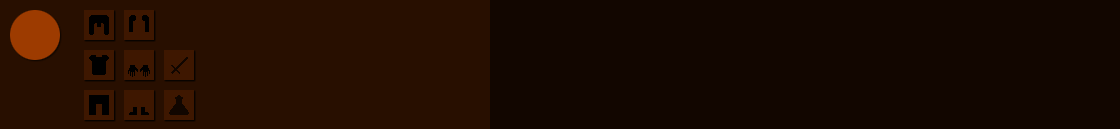
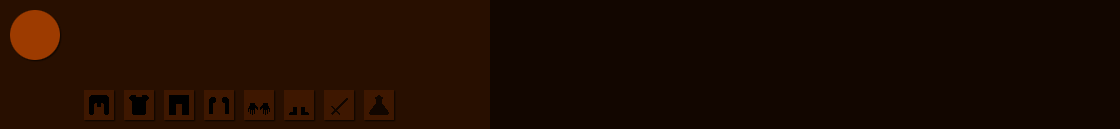
Hud almost done. Further stats tweaks and bugfixes

diff --git a/DungeonFall/js/entities/hero.js b/DungeonFall/js/entities/hero.js
@@ -30,6 +30,7 @@ game.Hero = me.ObjectEntity.extend({
     Level: 1,
     XP: 0,
     XPTNL: 50,
+    LastXPTNL: 0,
     DRMin: 0,
     DRMax: 3,
     DRBase:3,
@@ -40,6 +41,8 @@ game.Hero = me.ObjectEntity.extend({
     HP: 10,
 
     Items: new Array(8),
+
+    ItemNames: [ "a better helm", "a better chestplate", "better leggings", "better bracers", "better gloves", "better boots", "a better sword", "a potion" ],
 
     init: function (x, y, settings) {
         // call the constructor
@@ -79,6 +82,7 @@ game.Hero = me.ObjectEntity.extend({
         this.HP = this.HPMax;
         this.isEntering = true;
         this.stairsFound = null;
+        
 
         for (var x = 0; x < this.DUNGEON_WIDTH; x++) {
             this.DiscoveredTiles[x] = new Array(this.DUNGEON_HEIGHT);
@@ -87,7 +91,10 @@ game.Hero = me.ObjectEntity.extend({
             }
         }
 
-        for (var i = 0; i < 8; i++) this.Items[i] = 0;
+        if (game.Level == 1) { // First level intialization
+            for (var i = 0; i < 8; i++) this.Items[i] = 0;
+            this.XPTNL = 50;
+        }
 
         this.z = 4;
 
@@ -107,12 +114,7 @@ game.Hero = me.ObjectEntity.extend({
         var tx = Math.floor(this.pos.x / 32);
         var ty = Math.floor(this.pos.y / 32);
 
-        if (this.stairsFound!=null && !this.isFollowingPath && dungeon.isComplete && tx == this.stairsFound.x && ty == this.stairsFound.y) {
-            me.game.viewport.fadeIn("#000000", 1000, this.nextLevel.bind(this));
-            this.updateMovement();
-            this.parent();
-            return true;
-        }
+      
 
         //if (tx > 0) this.lastKnownGoodX = tx;
         //if (ty > 0) this.lastKnownGoodY = ty;
@@ -162,7 +164,7 @@ game.Hero = me.ObjectEntity.extend({
             if (me.timer.getTime() > this.statsTick + this.statsTickTarget) {
                 this.statsTick = me.timer.getTime();
                 if (this.HP < this.HPMax) {
-                    this.HP++;
+                    this.HP+= (this.HPMax/20);
                     game.HUD.addFloatyText(new me.Vector2d((this.pos.x + 3) + Math.floor(Math.random() * 16), this.pos.y), "1", "green");
                     
 
@@ -181,6 +183,8 @@ game.Hero = me.ObjectEntity.extend({
             }
         }
 
+        if (this.HP > this.HPMax) this.HP = this.HPMax;
+
         for (var x = 0; x < this.DUNGEON_WIDTH; x++) {
             for (var y = 0; y < this.DUNGEON_HEIGHT; y++) {
                 if (this.DiscoveredTiles[x][y] == -1) {
@@ -198,7 +202,7 @@ game.Hero = me.ObjectEntity.extend({
             for (var y = ty - 1; y <= ty + 1; y++) {
                 if (x >= 1 && y >= 1 && x <= this.DUNGEON_WIDTH - 1 && y <= this.DUNGEON_HEIGHT - 2  && this.DiscoveredTiles[x][y]!=1) {
                     this.DiscoveredTiles[x][y] = 1;
-                    this.XP+=0.54;
+                    this.XP+=(game.Level/5);
                     if (dungeon.Tiles[x][y] == PieceHelper.STAIRS_TILE && this.stairsFound == null) {
                         this.stairsFound = new me.Vector2d(x, y);
                         dungeon.stairsOK = true;
@@ -215,15 +219,19 @@ game.Hero = me.ObjectEntity.extend({
             var cy = Math.floor(chest.pos.y / 32);
             if (tx == cx && ty == cy && !chest.isOpen) {
                 chest.open();
-                game.HUD.addLine("Hero opened a chest!");
+                game.HUD.addLine("Hero opened a chest");
+                var ran = Math.floor(Math.random() * 6);
+                this.Items[ran]++;
+                game.HUD.addLine("...and found " + this.ItemNames[ran] + "!");
             }
         }
 
         for (this.scanY = 1; this.scanY < this.DUNGEON_HEIGHT - 2; this.scanY++) {
-            if (dungeon.Tiles[this.scanX][this.scanY] == PieceHelper.STAIRS_TILE) {
+            if (dungeon.Tiles[this.scanX][this.scanY] == PieceHelper.STAIRS_TILE && this.stairsFound==null) {
                 var path = dungeon.findPath(dungeon.pathGrid, tx, ty, this.scanX, this.scanY);
                 if (path.length > 0) {
                     dungeon.stairsOK = true;
+                    this.explore(this.scanX, this.scanY, path);
                 } else {
                     dungeon.stairsOK = false;
                 }
@@ -301,6 +309,13 @@ game.Hero = me.ObjectEntity.extend({
             }
 
         }
+
+        if (this.stairsFound != null && !this.isFollowingPath && dungeon.isComplete && tx == this.stairsFound.x && ty == this.stairsFound.y && me.game.world.getEntityByProp("name", "mob").length == 0 && !this.isTravelling) {
+            me.game.viewport.fadeIn("#000000", 1000, this.nextLevel.bind(this));
+            this.updateMovement();
+            this.parent();
+            return true;
+        }
         
         this.scanX++;
         if (this.scanX == this.DUNGEON_WIDTH - 1) {
@@ -314,7 +329,9 @@ game.Hero = me.ObjectEntity.extend({
        
         if (this.XP >= this.XPTNL) {
             this.Level++;
+            this.LastXPTNL = this.XPTNL;
             this.XPTNL = 50 + (50 * this.Level);
+            this.XP = 0;
             this.HPMax += this.Level;
             this.HP = this.HPMax;
             game.HUD.addFloatyText(new me.Vector2d((this.pos.x - 50) + Math.floor(Math.random() * 16), this.pos.y - 16), "Level Up!", "gold", 2);

diff --git a/DungeonFall/js/entities/hud.js b/DungeonFall/js/entities/hud.js
@@ -12,6 +12,9 @@ game.HUD.addLine = function (line) {
 
 game.HUD.Container = me.ObjectContainer.extend({
 
+    itemSprites: new Array(8),
+    itemSpriteNames: ["ihead","ichest","ilegs","iarms","ihands","ifeet","isword","ipotion"],
+
     init: function () {
         // call the constructor
         this.parent();
@@ -36,10 +39,27 @@ game.HUD.Container = me.ObjectContainer.extend({
         bg.z = -2;
         this.addChild(bg);
 
+        this.itemSpriteNames = ["ihead", "ichest", "ilegs", "iarms", "ihands", "ifeet", "isword", "ipotion"];
+
+        var sx = 84;
+        var sy = 698;
+        for (var i = 0; i < 8; i++) {
+            this.itemSprites[i] = new me.SpriteObject(sx, sy, me.loader.getImage(this.itemSpriteNames[i]), 30, 30);
+            this.itemSprites[i].floating = true;
+            this.itemSprites[i].z = 0;
+            this.itemSprites[i].alpha = 0;
+            this.addChild(this.itemSprites[i]);
+            sx += 40;
+        }
+
         for(var i=0;i<7;i++) game.HUD.addLine("");
 
         this.font = new me.BitmapFont("font", { x: 32, y: 32 }, 0.8);
-        this.font.alignText = "center";
+        this.font.set("center");
+        this.itemfontgreen = new me.BitmapFont("floatfont-green", { x: 13, y: 14 }, 1);
+        this.itemfontgreen.set("center");
+        this.itemfontwhite = new me.BitmapFont("floatfont-white", { x: 13, y: 14 }, 1);
+        this.itemfontwhite.set("center");
         this.floating = true;
 
 
@@ -51,7 +71,27 @@ game.HUD.Container = me.ObjectContainer.extend({
         try {
             var hero = me.game.world.getEntityByProp("name", "hero")[0];
 
-            this.font.draw(context, hero.Level, 21, 630);
+            this.font.draw(context, hero.Level, 35, 630);
+
+            context.strokeStyle = "silver";
+            context.strokeRect(70, 618, 410, 26);
+            context.fillStyle = "#AA0000";
+            context.fillRect(72, 620, (406 / hero.HPMax) * hero.HP, 22);
+
+            context.strokeStyle = "silver";
+            context.strokeRect(70, 650, 410, 15);
+            context.fillStyle = "#AAAA00";
+            context.fillRect(72, 652, (406 / (hero.XPTNL)) * (hero.XP), 11);
+
+            for (var i = 0; i < 8; i++) {
+                if (hero.Items[i] > 0) {
+                    this.itemSprites[i].alpha = 1;
+                    this.itemfontgreen.draw(context, "+" + hero.Items[i], this.itemSprites[i].pos.x+14, this.itemSprites[i].pos.y+12);
+
+                }
+
+            }
+
             //this.font.draw(context, "HP: " + hero.HP + "/" + hero.HPMax + " Dam:" + hero.DRMax + " Def: " + hero.SRMax, 10, 628);
             //this.font.draw(context, "XP " + hero.XP + "/" + hero.XPTNL, 10, 646);
 

diff --git a/DungeonFall/js/resources.js b/DungeonFall/js/resources.js
@@ -16,6 +16,15 @@ game.resources = [
     { name: "floatfont-gold", type: "image", src: "data/img/floatfont-gold.png" },
     { name: "floatfont-blue", type: "image", src: "data/img/floatfont-blue.png" },
     { name: "hudbg", type: "image", src: "data/img/hudbg.png" },
+
+    { name: "ihead", type: "image", src: "data/img/hud/head.png" },
+    { name: "ichest", type: "image", src: "data/img/hud/chest.png" },
+    { name: "ifeet", type: "image", src: "data/img/hud/feet.png" },
+    { name: "ihands", type: "image", src: "data/img/hud/hands.png" },
+    { name: "iarms", type: "image", src: "data/img/hud/arms.png" },
+    { name: "ilegs", type: "image", src: "data/img/hud/legs.png" },
+    { name: "ipotion", type: "image", src: "data/img/hud/potion.png" },
+    { name: "isword", type: "image", src: "data/img/hud/sword.png" },
  
     { name: "basedungeon", type: "tmx", src: "data/map/basedungeon.xml" },
 
